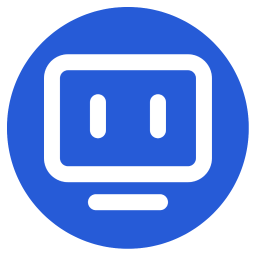
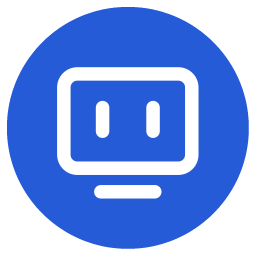
优化：软件图标尺寸

diff --git a/electron/mapi/file/index.ts b/electron/mapi/file/index.ts
@@ -205,9 +205,17 @@ const deletes = async (path: string, option?: { isFullPath?: boolean, }) => {
     }
     const stat = fs.statSync(fp)
     if (stat.isDirectory()) {
-        fs.rmdirSync(fp, {recursive: true})
+        try {
+            fs.rmdirSync(fp, {recursive: true})
+        } catch (e) {
+            console.log('mapi.file.deletes.error', e)
+        }
     } else {
-        fs.unlinkSync(fp)
+        try {
+            fs.unlinkSync(fp)
+        } catch (e) {
+            console.log('mapi.file.deletes.error', e)
+        }
     }
 }
 const rename = async (pathOld: string, pathNew: string, option?: {

diff --git a/src/components/common/VideoPlayer.vue b/src/components/common/VideoPlayer.vue
@@ -1,7 +1,7 @@
 <script setup lang="ts">
 import Player from 'xgplayer';
 import 'xgplayer/dist/index.min.css';
-import {onMounted, ref} from "vue";
+import {onBeforeUnmount, onMounted, ref} from "vue";
 
 const videoContainer = ref<HTMLDivElement | undefined>(undefined);
 
@@ -36,6 +36,12 @@ onMounted(() => {
         loop: props.loop,
         controls: props.controls,
     });
+})
+
+onBeforeUnmount(() => {
+    if (player) {
+        player.destroy();
+    }
 })
 
 </script>

diff --git a/src/components/Video/VideoTemplateDialog.vue b/src/components/Video/VideoTemplateDialog.vue
@@ -79,6 +79,7 @@ defineExpose({
                 <a-table :scroll="{maxHeight:'60vh'}"
                          :columns="columns"
                          :pagination="false"
+                         row-key="id"
                          :data="records">
                     <template #video="{ record }">
                         <div class="p-2 shadow rounded-lg bg-gray-400 inline-block">

diff --git a/src/components/Video/VideoGenCreate.vue b/src/components/Video/VideoGenCreate.vue
@@ -70,7 +70,7 @@ onMounted(async () => {
 })
 
 const doSubmit = async () => {
-    formData.value.param = paramForm.value.getValue()
+    formData.value.param = paramForm.value?.getValue() as any
     if (!formData.value.serverKey) {
         Dialog.tipError(t('请选择模型'))
         return

diff --git a/changelog.md b/changelog.md
@@ -6,6 +6,7 @@
 - 优化：默认禁用 GPU 加速功能
 - 优化：获取可用端口逻辑功能优化
 - 优化：Windows 系统下进程输出编码乱码问题
+- 优化：软件图标尺寸
 
 ## v0.0.2
 
